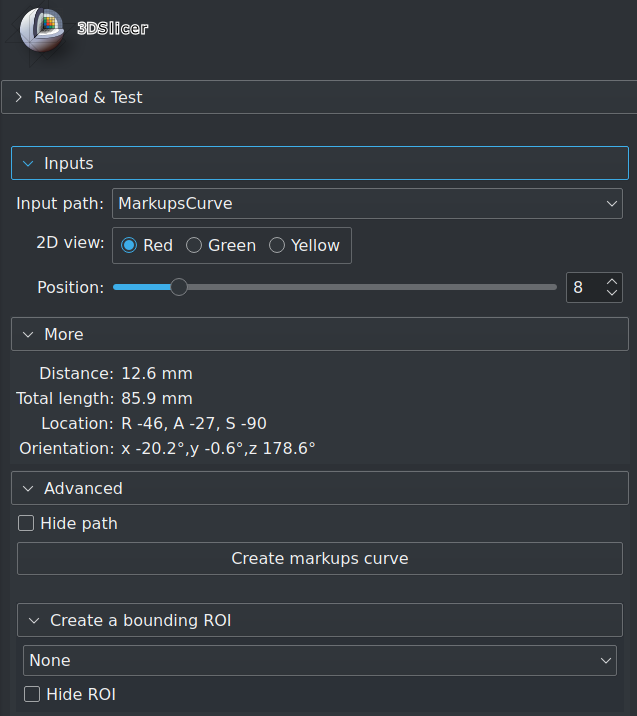
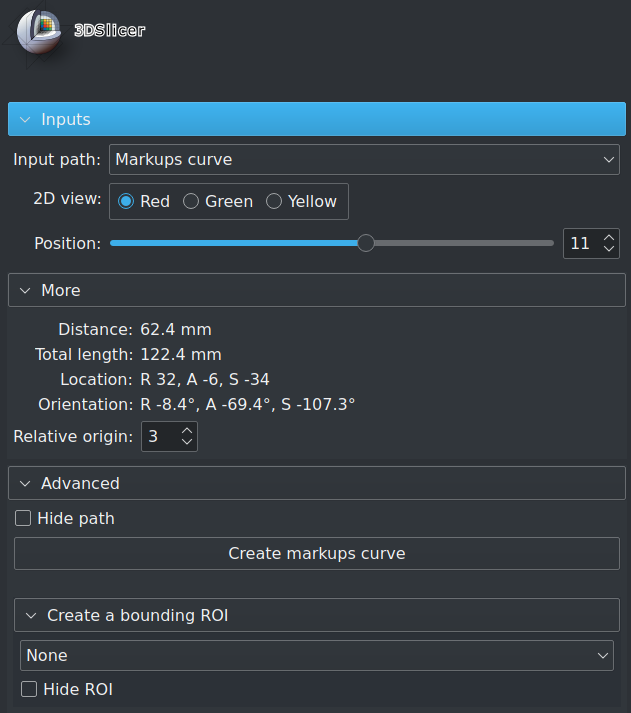
Update documentation.

diff --git a/README.md b/README.md
@@ -8,7 +8,7 @@ The view's position and orientation are dynamically reported.
 
 Select a markup curve or a VMTK centerline model, and a 2D view.
 
-Move the slider bar to reformat the view.
+Move the slider bar to reformat the view. Optionally, change the point for relative distance calculation.
 
 ![Texte alternatif](Screenshot_0.png)
 
